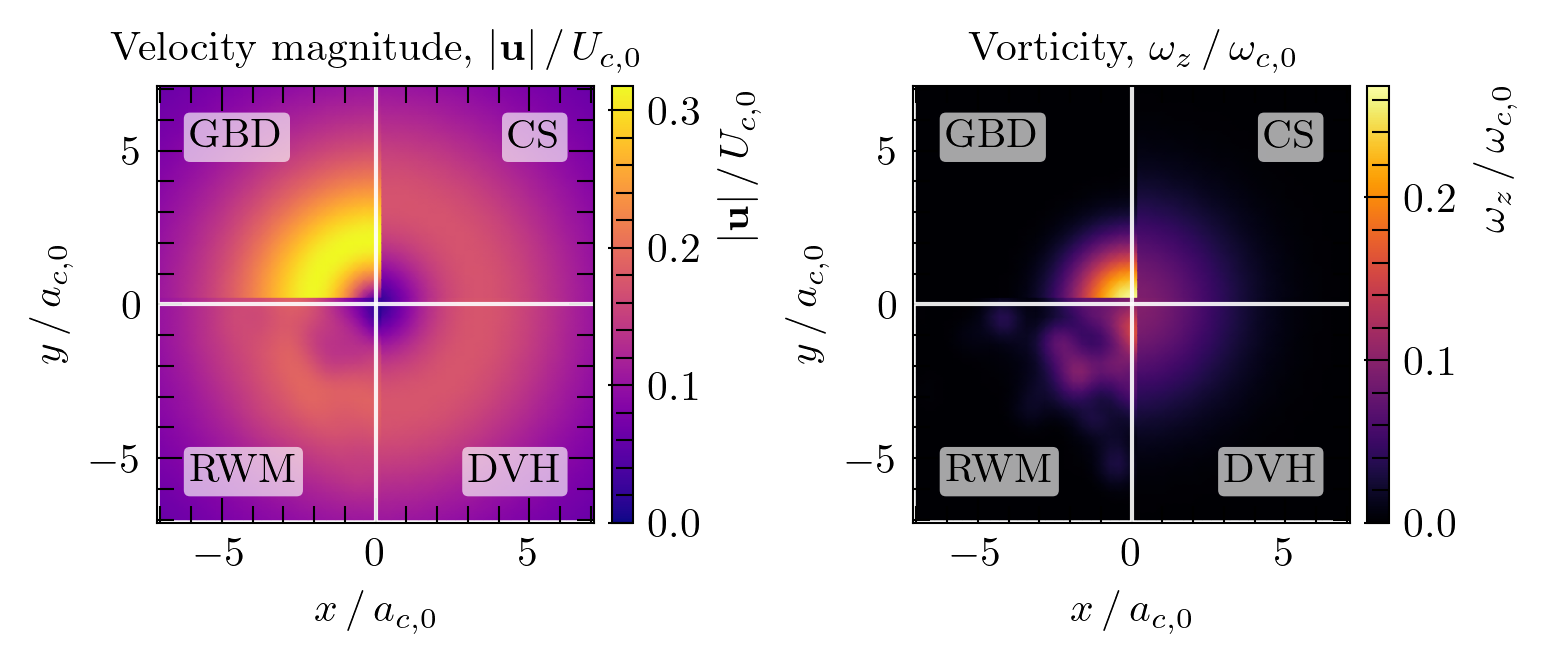
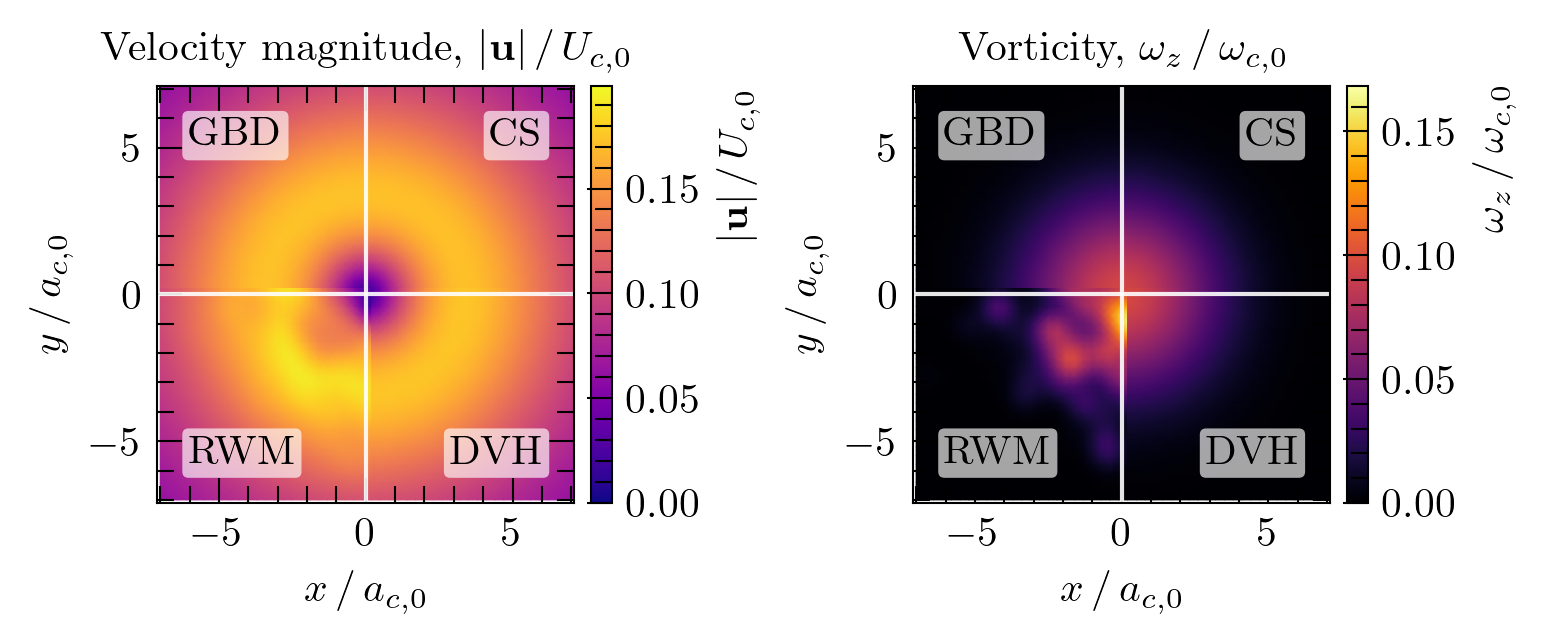
Made some progress with the lamb-oseen vortex problem.

diff --git a/tutorials/VPM/lambOseenVortex/assets/plot_merging_comparison.py b/tutorials/VPM/lambOseenVortex/assets/plot_merging_comparison.py
@@ -296,10 +296,12 @@ def step_diagnostics(xy, gz, b0, a0, prev_c, prev_c1, use_filtered_extrema=False
 
     sep = float(np.linalg.norm(cores[0] - cores[1]))
 
-    # See docstring: coincident centers = genuine merger; sep > 1.5*b0 = a
+    # See docstring: coincident centers = genuine merger; sep > 1.15*b0 = a
     # spurious "second core" (noise/edge artifact), since real separation only
-    # shrinks toward merger and C&W's own b/b0 never exceeds ~1.1 even at t=0.
-    merged = sep < 0.05 * b0 or sep > 1.5 * b0
+    # shrinks toward merger and C&W's own b/b0 never exceeds ~1.07 even at t=0
+    # (see b_over_b0_tau.csv). The old 1.5*b0 gate let post-merger artifacts
+    # through (e.g. GBD's tracker locking onto a filament at b/b0~1.25).
+    merged = sep < 0.05 * b0 or sep > 1.15 * b0
 
     mid = 0.5 * (cores[0] + cores[1])
     ang = float(np.arctan2(cores[0, 1] - mid[1], cores[0, 0] - mid[0]))
@@ -486,16 +488,16 @@ def plot_merging_case(args) -> int:
     axes[0].set_ylabel(r"$\theta$ [deg]")
     axes[0].set_title(r"Merging vortex characteristics")
     axes[0].set_ylim([-10, 400])
-    axes[0].set_xlim([0, 1.7])
+    axes[0].set_xlim([0, 2.6])
 
     axes[1].set_ylabel(r"$a_c^2 / b_0^2$")
     axes[1].set_ylim([0, 0.3])
-    axes[1].set_xlim([0, 1.7])
+    axes[1].set_xlim([0, 2.6])
 
     axes[2].set_xlabel(r"$\nu t / a_0^2$")
     axes[2].set_ylabel(r"$b / b_0$")
-    axes[2].set_ylim([0, 1.5])
-    axes[2].set_xlim([0, 1.7])
+    axes[2].set_ylim([0, 1.2])
+    axes[2].set_xlim([0, 2.6])
 
     handles, labels = axes[0].get_legend_handles_labels()
     fig.legend(handles, labels, loc="lower center", ncol=2, bbox_to_anchor=(0.5, 0.0) )

diff --git a/tutorials/VPM/lambOseenVortex/vortex_setup.py b/tutorials/VPM/lambOseenVortex/vortex_setup.py
@@ -59,7 +59,12 @@ DEFAULT_SOLUTION_DIR = TUTORIAL_DIR / "solution"
 
 RE = 530.0  # Re_Γ = Γ/nu — matches C&W 2003 reference data
 RC = 0.125  # initial C&W core radius a0 [m] — radius of PEAK azimuthal velocity
-MERGING_RC = 0.17  # C&W co-rotating merger benchmark core radius a0 [m]
+# C&W 2003 eq. (4.1): the co-rotating merger experiment starts at a0/b0 = 0.125
+# +/- 0.007 — the SAME core-to-separation ratio as the single-vortex case, and the
+# ratio at which their reference fig. 5 data (Re=530) were taken. A larger a0/b0
+# seeds the pair much closer to the convective-merger threshold a_crit/b0 = 0.29
+# (eq. 4.2), so it merges far too early. (Was 0.17, which merged ~2x too soon.)
+MERGING_RC = 0.125  # C&W co-rotating merger benchmark core radius a0 [m] (a0/b0=0.125)
 B0 = 1.0    # center-to-center separation b0 [m]  (a0/b0 = 0.125)
 
 # C&W 2003 define a0 as the radius of PEAK azimuthal velocity. For a Lamb-Oseen
